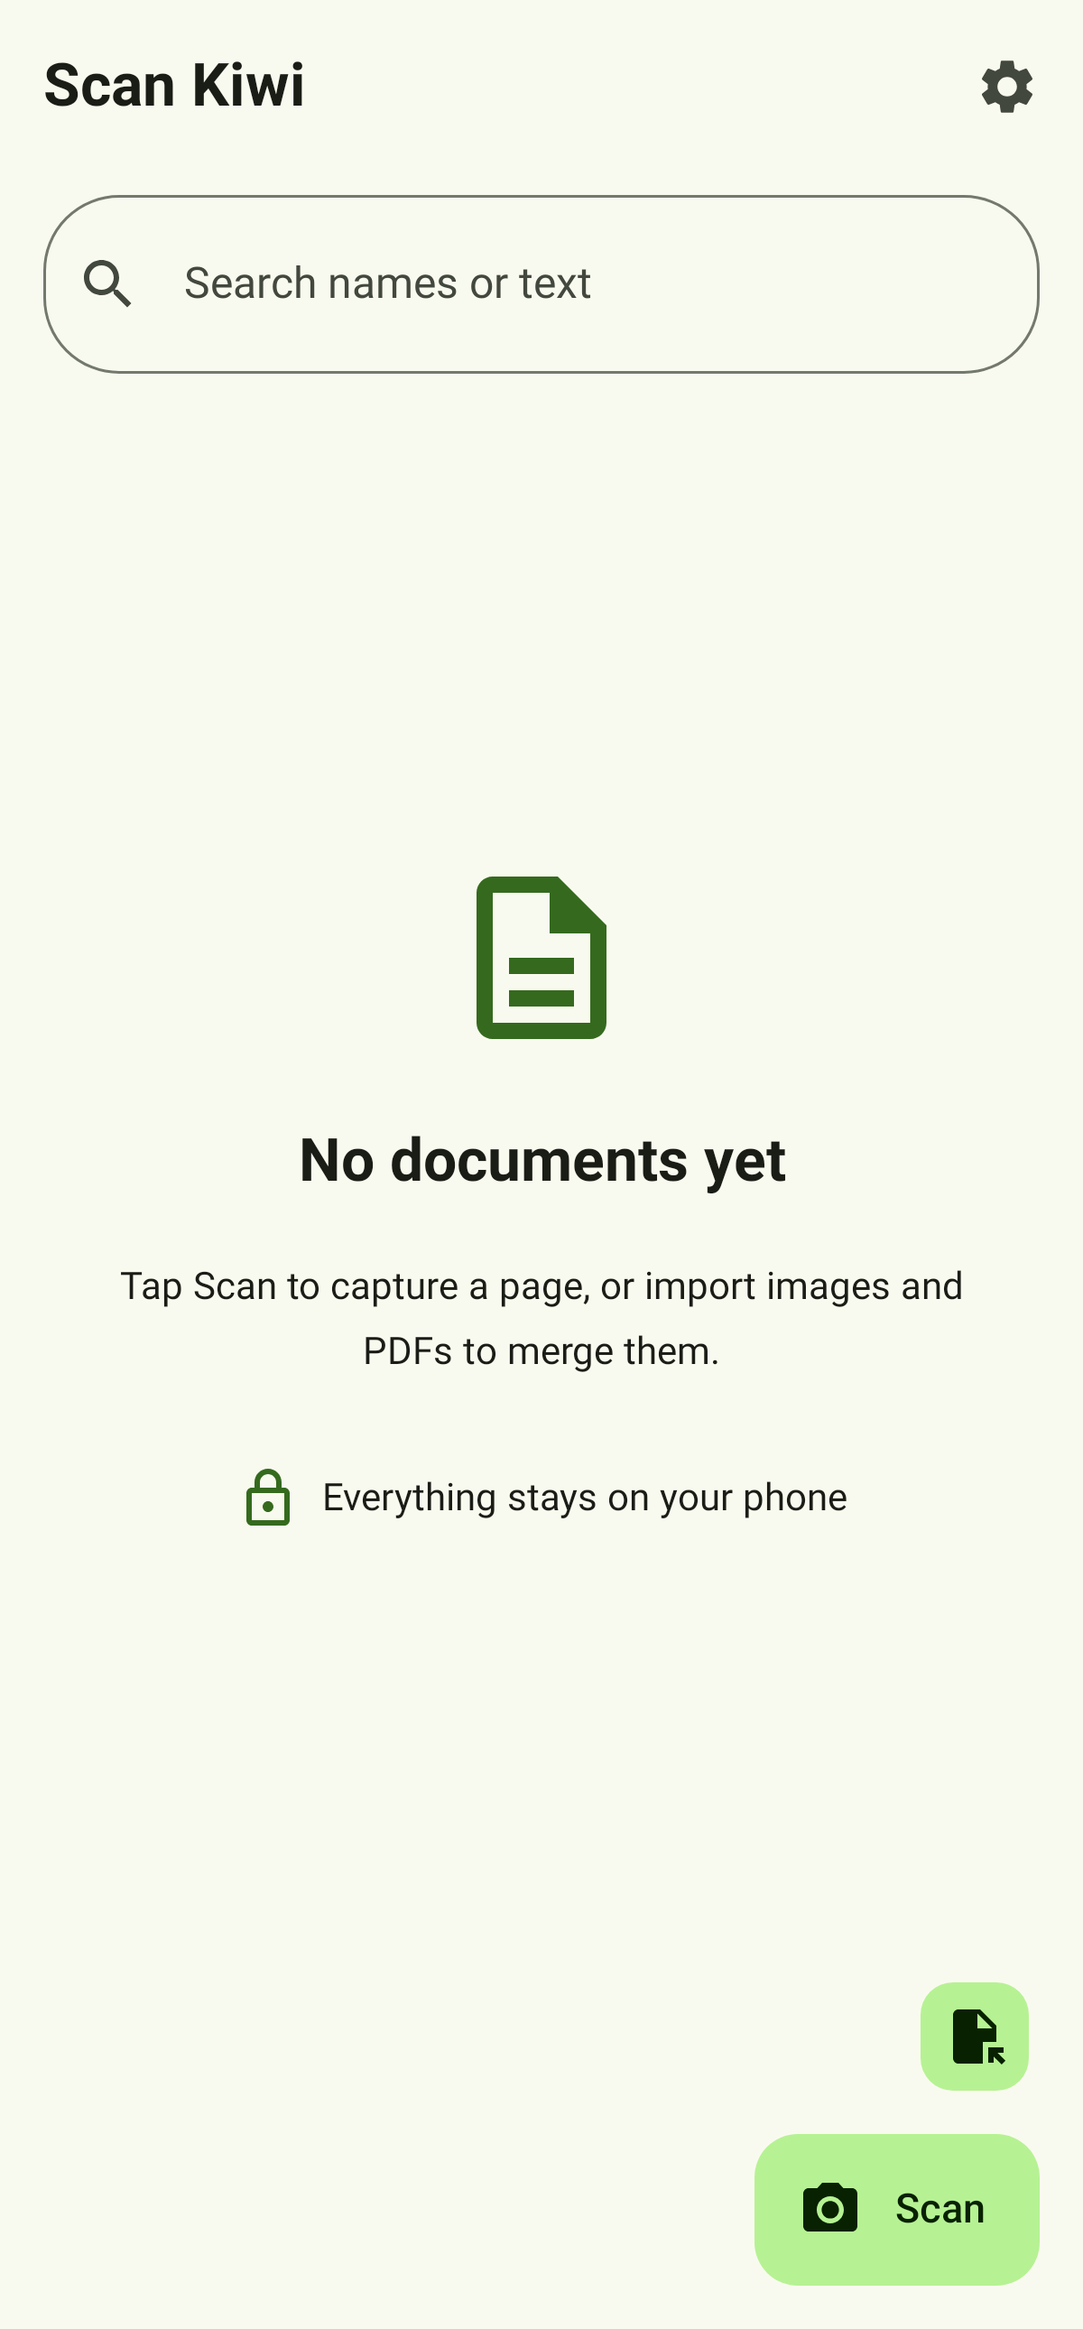
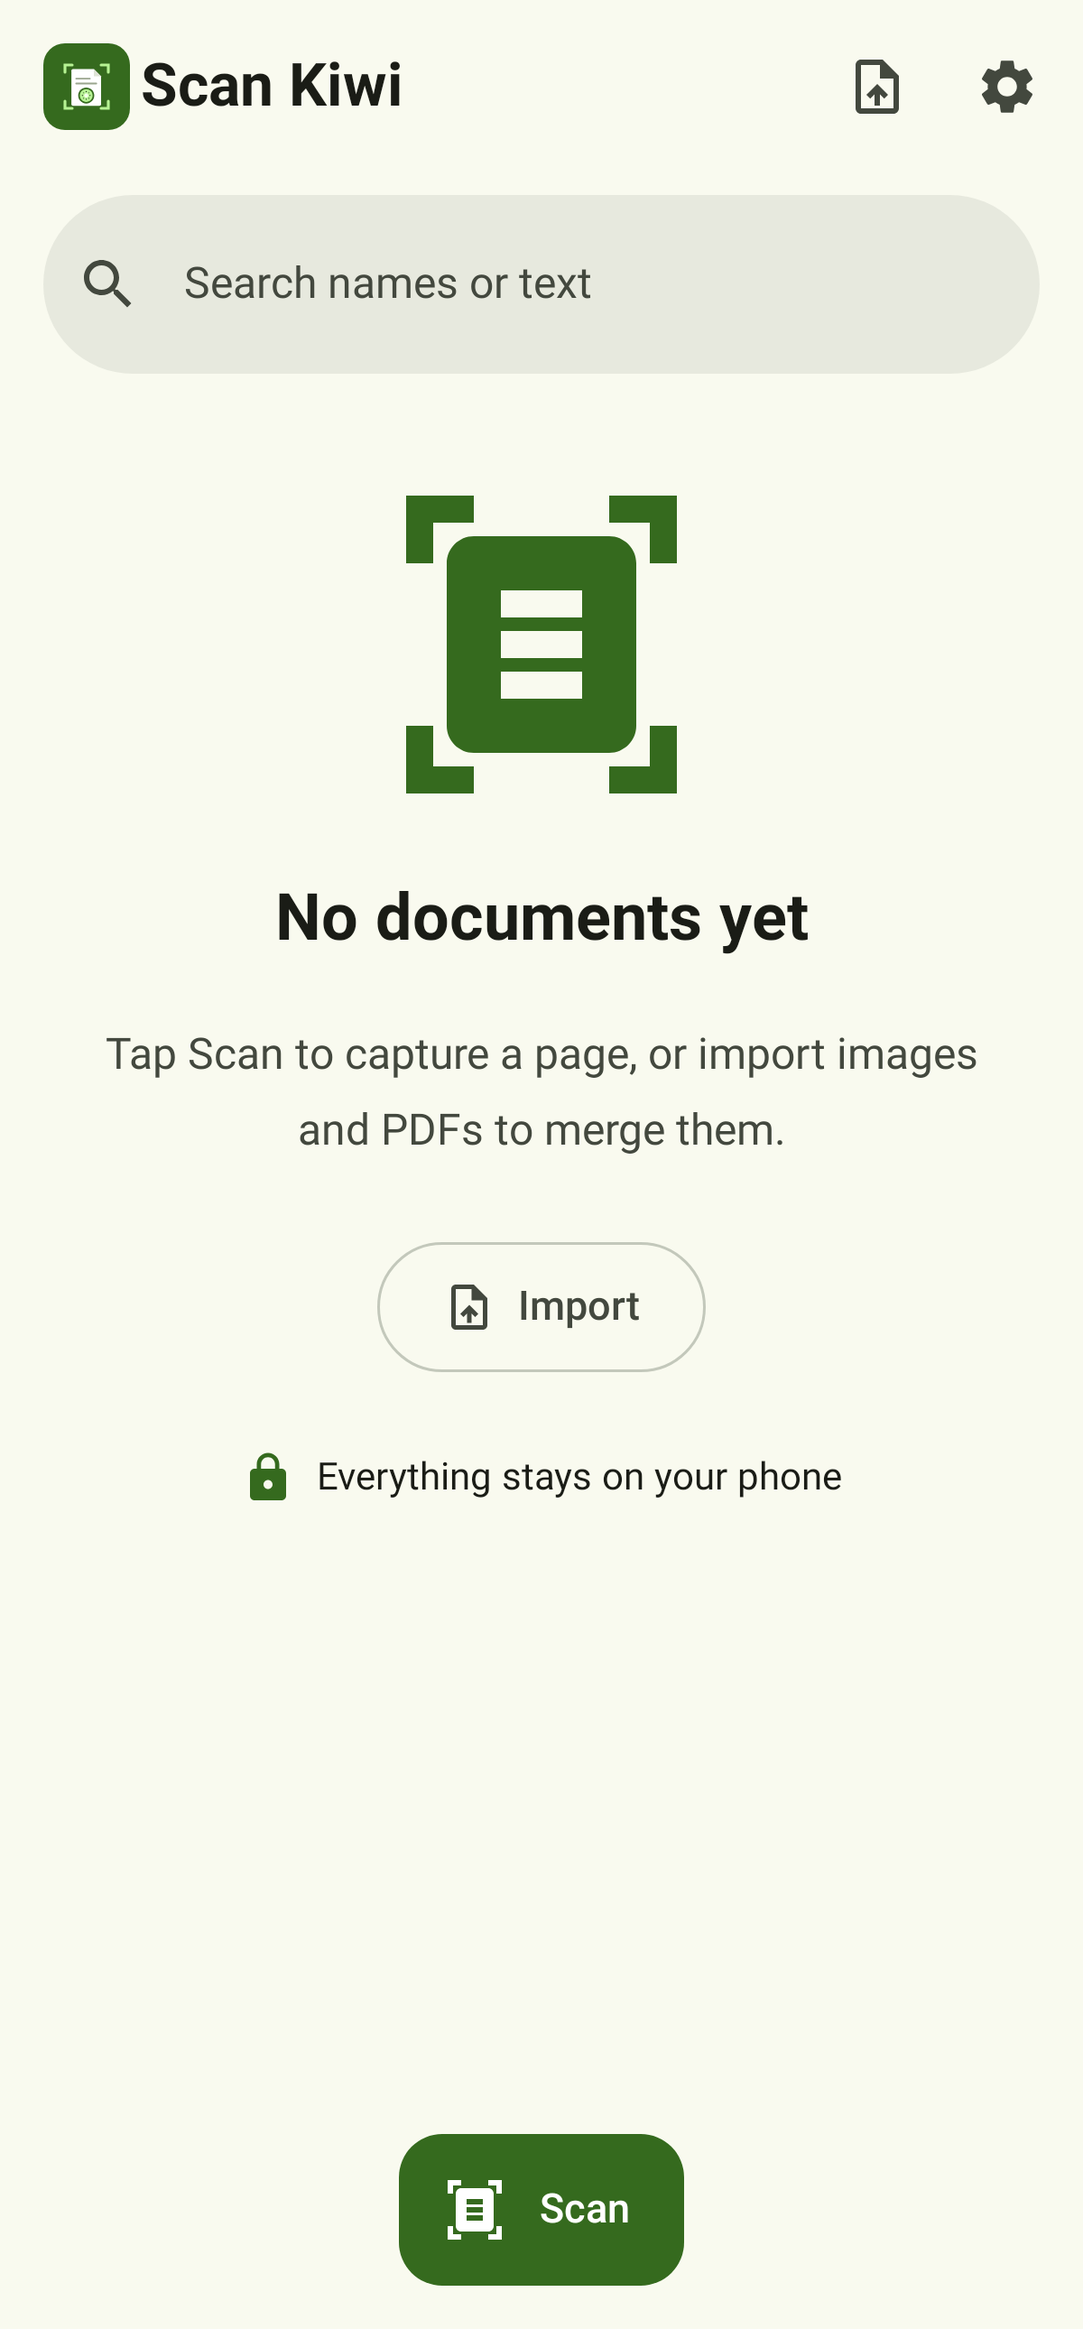
Design step 5: Home with centred primary scan FAB, filled search, page thumbnails
Import and settings move to the top bar with tooltips; count header; rows with
white bordered thumbnails, relative dates, Arabic comma separator; empty state
with import button and privacy line; 88 dp bottom padding.

diff --git a/app/src/main/java/com/fastkiwi/scan/ui/HomeScreen.kt b/app/src/main/java/com/fastkiwi/scan/ui/HomeScreen.kt
@@ -5,6 +5,8 @@ package com.fastkiwi.scan.ui
 import androidx.activity.compose.rememberLauncherForActivityResult
 import androidx.activity.result.contract.ActivityResultContracts
 import androidx.compose.foundation.ExperimentalFoundationApi
+import androidx.compose.foundation.Image
+import androidx.compose.foundation.background
 import androidx.compose.foundation.combinedClickable
 import androidx.compose.foundation.layout.Arrangement
 import androidx.compose.foundation.layout.Box
@@ -14,43 +16,36 @@ import androidx.compose.foundation.layout.Row
 import androidx.compose.foundation.layout.Spacer
 import androidx.compose.foundation.layout.fillMaxSize
 import androidx.compose.foundation.layout.fillMaxWidth
-import androidx.compose.foundation.layout.height
 import androidx.compose.foundation.layout.heightIn
 import androidx.compose.foundation.layout.padding
 import androidx.compose.foundation.layout.size
 import androidx.compose.foundation.layout.width
 import androidx.compose.foundation.lazy.LazyColumn
 import androidx.compose.foundation.lazy.items
+import androidx.compose.foundation.lazy.rememberLazyListState
+import androidx.compose.foundation.rememberScrollState
+import androidx.compose.foundation.shape.CircleShape
 import androidx.compose.foundation.shape.RoundedCornerShape
-import androidx.compose.material.icons.Icons
-import androidx.compose.material.icons.filled.CameraAlt
-import androidx.compose.material.icons.filled.CheckCircle
-import androidx.compose.material.icons.filled.Close
-import androidx.compose.material.icons.filled.Delete
-import androidx.compose.material.icons.filled.FileOpen
-import androidx.compose.material.icons.automirrored.filled.MergeType
-import androidx.compose.material.icons.filled.MoreVert
-import androidx.compose.material.icons.filled.Search
-import androidx.compose.material.icons.filled.Settings
-import androidx.compose.material.icons.outlined.Description
-import androidx.compose.material.icons.outlined.Lock
+import androidx.compose.foundation.verticalScroll
 import androidx.compose.material3.DropdownMenu
 import androidx.compose.material3.DropdownMenuItem
 import androidx.compose.material3.ExperimentalMaterial3Api
 import androidx.compose.material3.ExtendedFloatingActionButton
+import androidx.compose.material3.FabPosition
 import androidx.compose.material3.Icon
-import androidx.compose.material3.IconButton
 import androidx.compose.material3.MaterialTheme
-import androidx.compose.material3.OutlinedTextField
+import androidx.compose.material3.OutlinedButton
 import androidx.compose.material3.Scaffold
-import androidx.compose.material3.SmallFloatingActionButton
-import androidx.compose.material3.SnackbarHostState
 import androidx.compose.material3.SnackbarHost
+import androidx.compose.material3.SnackbarHostState
 import androidx.compose.material3.Surface
 import androidx.compose.material3.Text
+import androidx.compose.material3.TextField
+import androidx.compose.material3.TextFieldDefaults
 import androidx.compose.material3.TopAppBar
 import androidx.compose.material3.TopAppBarDefaults
 import androidx.compose.runtime.Composable
+import androidx.compose.runtime.derivedStateOf
 import androidx.compose.runtime.getValue
 import androidx.compose.runtime.mutableStateOf
 import androidx.compose.runtime.remember
@@ -59,7 +54,9 @@ import androidx.compose.runtime.setValue
 import androidx.compose.ui.Alignment
 import androidx.compose.ui.Modifier
 import androidx.compose.ui.draw.clip
-import androidx.compose.ui.layout.ContentScale
+import androidx.compose.ui.graphics.Color
+import androidx.compose.ui.platform.LocalContext
+import androidx.compose.ui.res.painterResource
 import androidx.compose.ui.res.pluralStringResource
 import androidx.compose.ui.res.stringResource
 import androidx.compose.ui.semantics.CustomAccessibilityAction
@@ -72,9 +69,9 @@ import androidx.compose.ui.unit.dp
 import androidx.lifecycle.compose.collectAsStateWithLifecycle
 import com.fastkiwi.scan.R
 import com.fastkiwi.scan.export.ExportOptions
-import java.text.DateFormat
-import java.util.Date
+import com.fastkiwi.scan.ui.theme.Dimens
 
+/** Document list (design spec §3.1): one centred primary «مسح», import and settings in the top bar. */
 @OptIn(ExperimentalMaterial3Api::class)
 @Composable
 fun HomeScreen(vm: AppViewModel, snackbar: SnackbarHostState) {
@@ -83,10 +80,13 @@ fun HomeScreen(vm: AppViewModel, snackbar: SnackbarHostState) {
     var selection by remember { mutableStateOf(setOf<String>()) }
     var renameId by remember { mutableStateOf<String?>(null) }
     var deleteIds by remember { mutableStateOf<Set<String>?>(null) }
+    val listState = rememberLazyListState()
+    val fabExpanded by remember { derivedStateOf { listState.firstVisibleItemIndex == 0 } }
 
     val importLauncher = rememberLauncherForActivityResult(ActivityResultContracts.OpenMultipleDocuments()) { uris ->
         vm.importUris(null, uris) { id -> vm.open(Screen.Editor(id)) }
     }
+    val importFiles = { importLauncher.launch(arrayOf("image/*", "application/pdf")) }
 
     val shown = remember(docs, query) {
         val q = query.trim()
@@ -98,69 +98,88 @@ fun HomeScreen(vm: AppViewModel, snackbar: SnackbarHostState) {
         topBar = {
             if (selection.isEmpty()) {
                 TopAppBar(
-                    title = { Text(stringResource(R.string.app_name)) },
+                    navigationIcon = { BrandMark(Modifier.padding(start = Dimens.m)) },
+                    title = { Text(stringResource(R.string.app_name), style = MaterialTheme.typography.titleLarge, maxLines = 1) },
                     actions = {
-                        IconButton(onClick = { vm.open(Screen.Settings) }) {
-                            Icon(Icons.Filled.Settings, stringResource(R.string.settings))
-                        }
+                        TooltipIconButton(KiwiIcons.import(), stringResource(R.string.import_files), importFiles)
+                        TooltipIconButton(KiwiIcons.settings(), stringResource(R.string.settings), { vm.open(Screen.Settings) })
                     },
                 )
             } else {
                 TopAppBar(
                     colors = TopAppBarDefaults.topAppBarColors(containerColor = MaterialTheme.colorScheme.secondaryContainer),
-                    navigationIcon = {
-                        IconButton(onClick = { selection = emptySet() }) { Icon(Icons.Filled.Close, stringResource(R.string.clear_selection)) }
-                    },
+                    navigationIcon = { TooltipIconButton(KiwiIcons.close(), stringResource(R.string.clear_selection), { selection = emptySet() }) },
                     title = { Text(pluralStringResource(R.plurals.selected_count, selection.size, selection.size)) },
                     actions = {
-                        IconButton(onClick = {
+                        TooltipIconButton(KiwiIcons.merge(), stringResource(R.string.merge), {
                             val ordered = docs.map { it.doc.id }.filter { it in selection }.reversed()
                             vm.merge(ordered) { id -> selection = emptySet(); vm.open(Screen.Editor(id)) }
-                        }, enabled = selection.size >= 2) {
-                            Icon(Icons.AutoMirrored.Filled.MergeType, stringResource(R.string.merge))
-                        }
-                        IconButton(onClick = { deleteIds = selection }) { Icon(Icons.Filled.Delete, stringResource(R.string.delete)) }
+                        }, enabled = selection.size >= 2)
+                        TooltipIconButton(KiwiIcons.delete(), stringResource(R.string.delete), { deleteIds = selection })
                     },
                 )
             }
         },
         floatingActionButton = {
-            Column(horizontalAlignment = Alignment.End, verticalArrangement = Arrangement.spacedBy(12.dp)) {
-                SmallFloatingActionButton(onClick = { importLauncher.launch(arrayOf("image/*", "application/pdf")) }) {
-                    Icon(Icons.Filled.FileOpen, stringResource(R.string.import_files))
-                }
+            if (selection.isEmpty()) {
                 ExtendedFloatingActionButton(
                     onClick = { vm.open(Screen.Camera(null)) },
-                    icon = { Icon(Icons.Filled.CameraAlt, null) },
+                    expanded = fabExpanded,
+                    icon = { Icon(KiwiIcons.scan(), null) },
                     text = { Text(stringResource(R.string.scan)) },
+                    containerColor = MaterialTheme.colorScheme.primary,
+                    contentColor = MaterialTheme.colorScheme.onPrimary,
                 )
             }
         },
+        floatingActionButtonPosition = FabPosition.Center,
     ) { padding ->
         Column(Modifier.padding(padding).fillMaxSize()) {
-            OutlinedTextField(
+            TextField(
                 value = query,
                 onValueChange = { query = it },
-                modifier = Modifier.fillMaxWidth().padding(horizontal = 16.dp, vertical = 8.dp),
+                modifier = Modifier.fillMaxWidth().padding(horizontal = Dimens.screen, vertical = Dimens.s).heightIn(min = 56.dp),
                 singleLine = true,
-                leadingIcon = { Icon(Icons.Filled.Search, null) },
+                leadingIcon = { Icon(KiwiIcons.search(), null) },
                 trailingIcon = {
-                    if (query.isNotEmpty()) IconButton(onClick = { query = "" }) { Icon(Icons.Filled.Close, stringResource(R.string.clear_search)) }
+                    if (query.isNotEmpty()) TooltipIconButton(KiwiIcons.close(), stringResource(R.string.clear_search), { query = "" })
                 },
                 placeholder = { Text(stringResource(R.string.search_hint)) },
-                shape = RoundedCornerShape(28.dp),
+                shape = CircleShape,
+                colors = TextFieldDefaults.colors(
+                    focusedContainerColor = MaterialTheme.colorScheme.surfaceContainerHigh,
+                    unfocusedContainerColor = MaterialTheme.colorScheme.surfaceContainerHigh,
+                    focusedIndicatorColor = Color.Transparent,
+                    unfocusedIndicatorColor = Color.Transparent,
+                ),
             )
-            if (docs.isEmpty()) {
-                EmptyState()
-            } else if (shown.isEmpty()) {
-                Text(
-                    stringResource(R.string.no_results),
-                    Modifier.fillMaxWidth().padding(32.dp),
-                    textAlign = TextAlign.Center,
-                    style = MaterialTheme.typography.bodyLarge,
+            when {
+                docs.isEmpty() -> Box(Modifier.fillMaxSize().verticalScroll(rememberScrollState()), contentAlignment = Alignment.TopCenter) {
+                    EmptyState(KiwiIcons.scan(), stringResource(R.string.empty_title), stringResource(R.string.empty_body), Modifier.padding(bottom = Dimens.underFab)) {
+                        OutlinedButton(onClick = importFiles, modifier = Modifier.heightIn(min = Dimens.button)) {
+                            Icon(KiwiIcons.import(), null, Modifier.size(20.dp)); Spacer(Modifier.width(Dimens.s))
+                            Text(stringResource(R.string.import_short))
+                        }
+                        Spacer(Modifier.size(Dimens.xl))
+                        Row(verticalAlignment = Alignment.CenterVertically) {
+                            Icon(KiwiIcons.lock(), null, tint = MaterialTheme.colorScheme.primary, modifier = Modifier.size(20.dp))
+                            Spacer(Modifier.width(Dimens.s))
+                            Text(stringResource(R.string.privacy_short), style = MaterialTheme.typography.bodyMedium)
+                        }
+                    }
+                }
+                shown.isEmpty() -> Text(
+                    stringResource(R.string.no_results), Modifier.fillMaxWidth().padding(Dimens.xxl),
+                    textAlign = TextAlign.Center, style = MaterialTheme.typography.bodyLarge,
                 )
-            } else {
-                LazyColumn(contentPadding = PaddingValues(bottom = 160.dp)) {
+                else -> LazyColumn(state = listState, contentPadding = PaddingValues(bottom = Dimens.underFab)) {
+                    item {
+                        Text(
+                            pluralStringResource(R.plurals.doc_count, shown.size, shown.size),
+                            style = MaterialTheme.typography.titleSmall, color = MaterialTheme.colorScheme.onSurfaceVariant,
+                            modifier = Modifier.padding(horizontal = Dimens.screen, vertical = Dimens.s),
+                        )
+                    }
                     items(shown, key = { it.doc.id }) { e ->
                         DocRow(
                             vm, e, selected = e.doc.id in selection, selecting = selection.isNotEmpty(),
@@ -197,29 +216,16 @@ fun HomeScreen(vm: AppViewModel, snackbar: SnackbarHostState) {
     }
 }
 
-private fun Set<String>.toggle(id: String) = if (id in this) this - id else this + id
-
+/** The app's own mark (kiwi page) at 32 dp. */
 @Composable
-private fun EmptyState() {
-    Column(
-        Modifier.fillMaxSize().padding(32.dp),
-        horizontalAlignment = Alignment.CenterHorizontally,
-        verticalArrangement = Arrangement.Center,
-    ) {
-        Icon(Icons.Outlined.Description, null, Modifier.size(72.dp), tint = MaterialTheme.colorScheme.primary)
-        Spacer(Modifier.height(16.dp))
-        Text(stringResource(R.string.empty_title), style = MaterialTheme.typography.titleLarge, textAlign = TextAlign.Center)
-        Spacer(Modifier.height(8.dp))
-        Text(stringResource(R.string.empty_body), style = MaterialTheme.typography.bodyMedium, textAlign = TextAlign.Center)
-        Spacer(Modifier.height(24.dp))
-        Row(verticalAlignment = Alignment.CenterVertically) {
-            Icon(Icons.Outlined.Lock, null, tint = MaterialTheme.colorScheme.primary)
-            Spacer(Modifier.width(8.dp))
-            Text(stringResource(R.string.privacy_short), style = MaterialTheme.typography.bodyMedium)
-        }
-        Spacer(Modifier.height(120.dp))
-    }
+fun BrandMark(modifier: Modifier = Modifier, size: Int = 32) {
+    Box(
+        modifier.size(size.dp).clip(RoundedCornerShape((size / 4).dp)).background(MaterialTheme.colorScheme.primary),
+        contentAlignment = Alignment.Center,
+    ) { Image(painterResource(R.drawable.ic_launcher_foreground), null, Modifier.size((size * 1.5f).dp)) }
 }
+
+private fun Set<String>.toggle(id: String) = if (id in this) this - id else this + id
 
 @OptIn(ExperimentalFoundationApi::class)
 @Composable
@@ -234,10 +240,12 @@ private fun DocRow(
     onDelete: () -> Unit,
     onShare: () -> Unit,
 ) {
+    val ctx = LocalContext.current
     val doc = e.doc
     var menu by remember { mutableStateOf(false) }
-    val date = remember(doc.modified) { DateFormat.getDateTimeInstance(DateFormat.MEDIUM, DateFormat.SHORT).format(Date(doc.modified)) }
+    val date = remember(doc.modified) { LocalFormat.docDate(ctx, doc.modified) }
     val pagesText = pluralStringResource(R.plurals.page_count, doc.pages.size, doc.pages.size)
+    val sep = LocalFormat.metaSep(ctx.resources.configuration.locales[0])
     val selectedLabel = stringResource(if (selected) R.string.selected else R.string.not_selected)
     val aShare = stringResource(R.string.share_pdf)
     val aRename = stringResource(R.string.rename)
@@ -258,29 +266,29 @@ private fun DocRow(
                 )
             },
     ) {
-        Row(Modifier.padding(horizontal = 16.dp, vertical = 8.dp), verticalAlignment = Alignment.CenterVertically) {
-            Box(Modifier.size(width = 56.dp, height = 72.dp).clip(RoundedCornerShape(6.dp))) {
+        Row(Modifier.padding(start = Dimens.l, end = Dimens.xs, top = Dimens.s, bottom = Dimens.s), verticalAlignment = Alignment.CenterVertically) {
+            Box(Modifier.size(width = 52.dp, height = 68.dp)) {
                 val first = doc.pages.firstOrNull()
                 if (first != null) {
-                    FileImage(vm.store.thumbFile(doc.id, first.id), first.revision, 360, null, Modifier.fillMaxSize(), ContentScale.Crop)
+                    PageThumbnail(vm.store.thumbFile(doc.id, first.id), first.revision, Modifier.fillMaxSize())
                 } else {
-                    Box(Modifier.fillMaxSize())
+                    Box(Modifier.fillMaxSize().clip(MaterialTheme.shapes.small).background(MaterialTheme.colorScheme.surfaceContainerHigh))
                 }
-                if (selected) Icon(Icons.Filled.CheckCircle, null, Modifier.align(Alignment.Center), tint = MaterialTheme.colorScheme.primary)
+                if (selected) Icon(KiwiIcons.checkCircle(), null, Modifier.align(Alignment.Center), tint = MaterialTheme.colorScheme.primary)
             }
-            Spacer(Modifier.width(16.dp))
+            Spacer(Modifier.width(Dimens.l))
             Column(Modifier.weight(1f)) {
-                Text(doc.name, style = MaterialTheme.typography.titleMedium, maxLines = 2, overflow = TextOverflow.Ellipsis)
-                Text("$pagesText · $date", style = MaterialTheme.typography.bodyMedium, color = MaterialTheme.colorScheme.onSurfaceVariant)
+                Text(doc.name, style = MaterialTheme.typography.titleMedium, maxLines = 1, overflow = TextOverflow.Ellipsis)
+                Text("$pagesText$sep$date", style = MaterialTheme.typography.bodyMedium, color = MaterialTheme.colorScheme.onSurfaceVariant, maxLines = 1)
             }
             if (!selecting) {
                 Box {
-                    IconButton(onClick = { menu = true }) { Icon(Icons.Filled.MoreVert, stringResource(R.string.more_options_for, doc.name)) }
+                    TooltipIconButton(KiwiIcons.more(), stringResource(R.string.more_options_for, doc.name), { menu = true })
                     DropdownMenu(expanded = menu, onDismissRequest = { menu = false }) {
                         DropdownMenuItem(text = { Text(stringResource(R.string.share_pdf)) }, onClick = { menu = false; onShare() }, enabled = doc.pages.isNotEmpty())
                         DropdownMenuItem(text = { Text(stringResource(R.string.rename)) }, onClick = { menu = false; onRename() })
                         DropdownMenuItem(text = { Text(stringResource(R.string.select)) }, onClick = { menu = false; onLongClick() })
-                        DropdownMenuItem(text = { Text(stringResource(R.string.delete)) }, onClick = { menu = false; onDelete() })
+                        DropdownMenuItem(text = { Text(stringResource(R.string.delete), color = MaterialTheme.colorScheme.error) }, onClick = { menu = false; onDelete() })
                     }
                 }
             }
